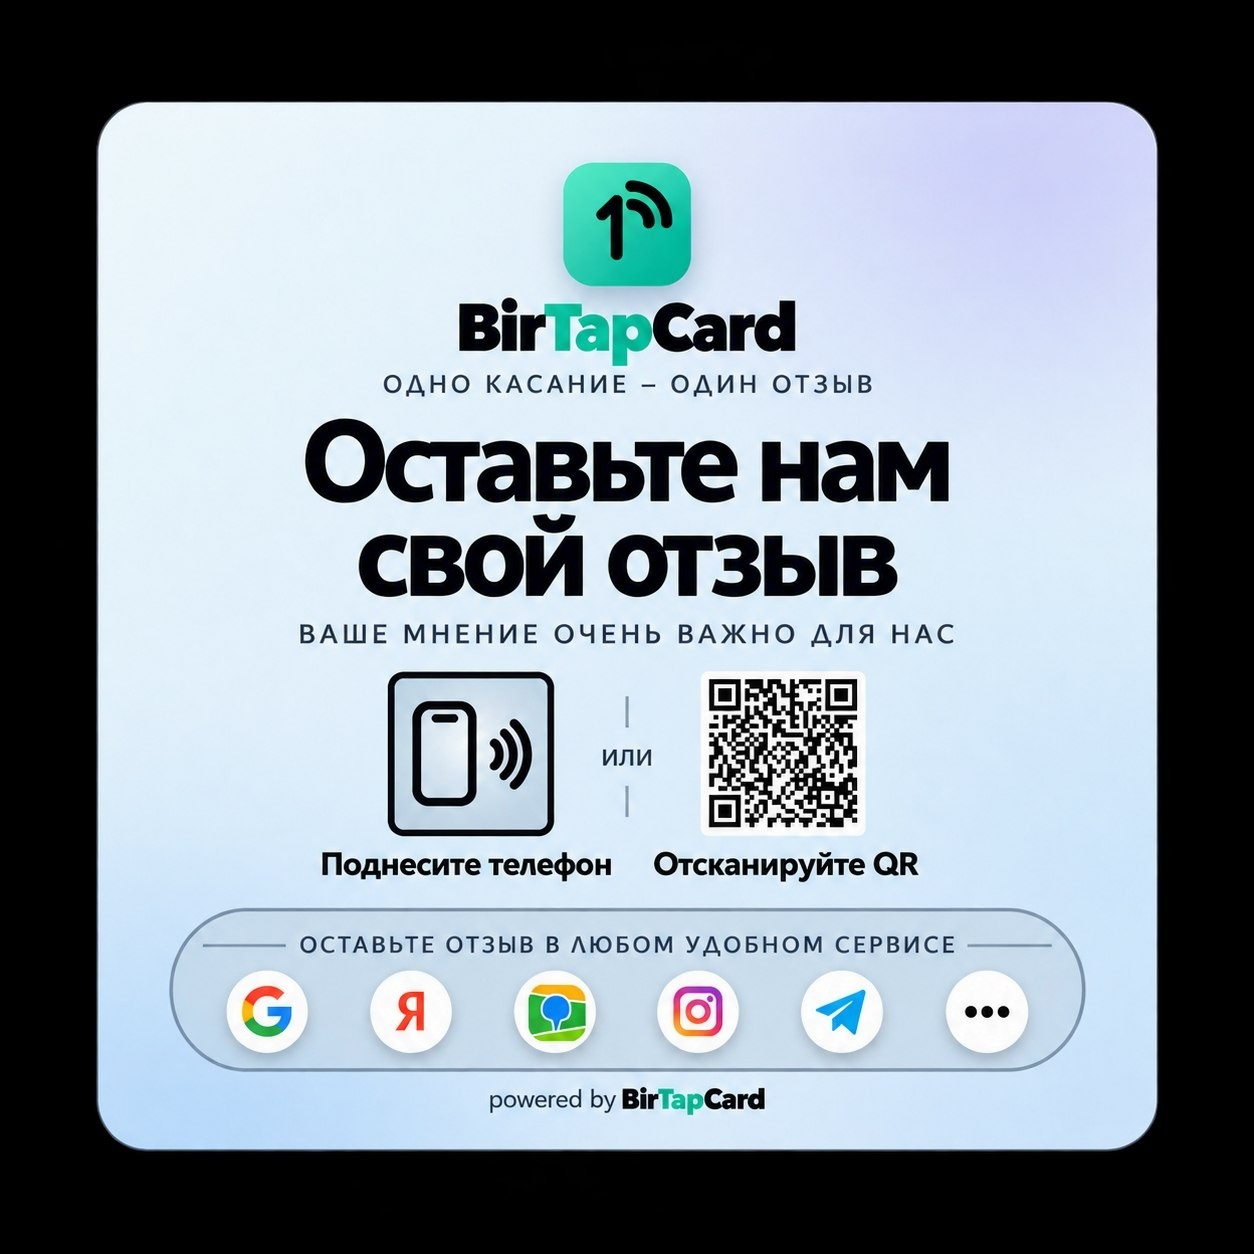
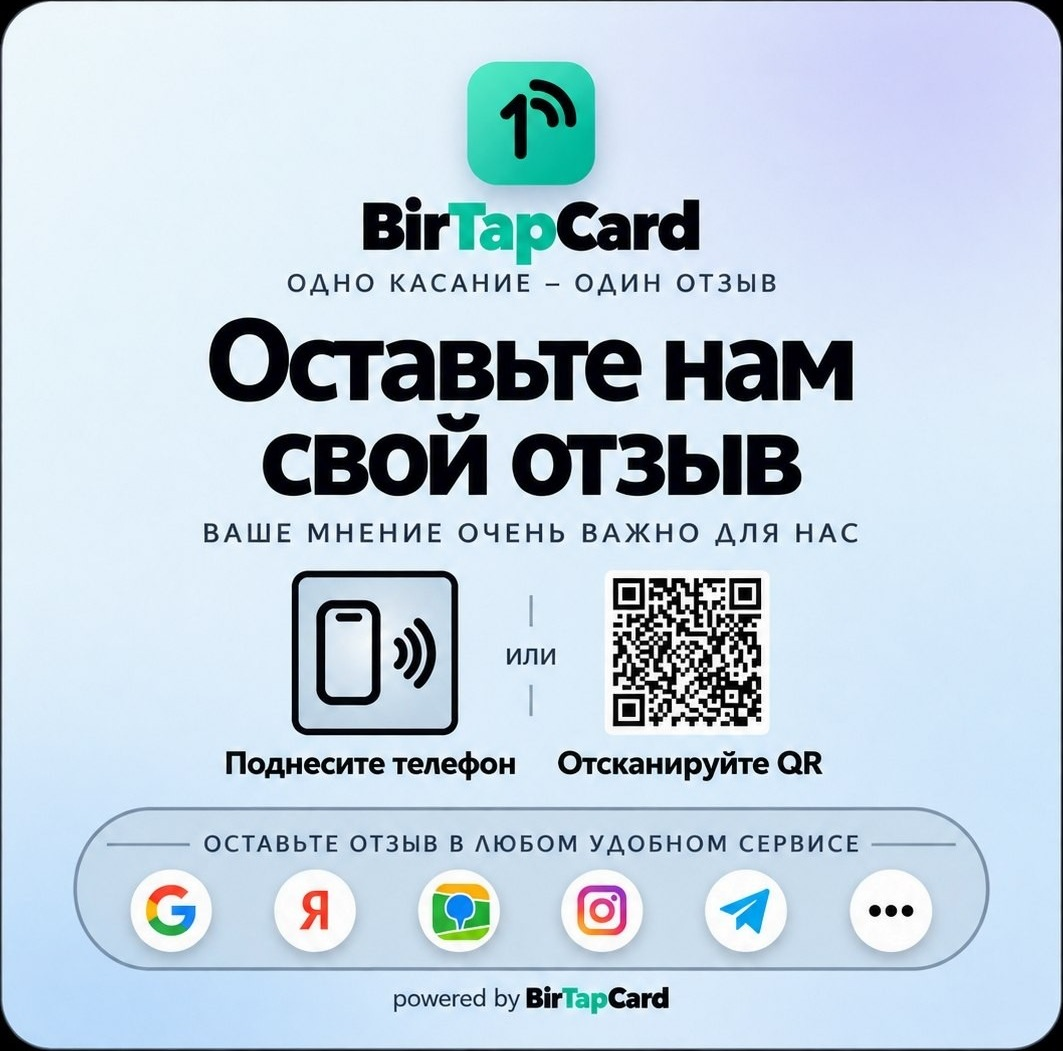
info: trim the baked-in black margin around the card render

diff --git a/public/info.html b/public/info.html
@@ -106,14 +106,16 @@ h1 em{font-style:normal;background:linear-gradient(120deg,var(--mint2),var(--min
 .hero p{color:var(--muted);font-size:16px;line-height:1.6;margin:0 auto 26px;max-width:400px}
 
 .card-shot{
-  position:relative;margin:0 auto 26px;max-width:290px;border-radius:24px;overflow:hidden;
+  position:relative;margin:0 auto 26px;max-width:330px;border-radius:30px;overflow:hidden;
   border:1px solid var(--border2);
   box-shadow:0 30px 70px -25px rgba(0,0,0,.9),0 0 0 1px rgba(0,217,174,.1)
 }
 .card-shot::after{
-  content:'';position:absolute;inset:0;
-  background:linear-gradient(to top,rgba(5,7,14,.55),transparent 45%)
+  content:'';position:absolute;inset:0;pointer-events:none;
+  background:linear-gradient(to top,rgba(5,7,14,.45),transparent 45%)
 }
+.card-shot.crop::after{background:linear-gradient(to top,rgba(5,7,14,.55),transparent 45%)}
+.card-shot:not(.crop)::after{background:none}
 .card-shot.crop{aspect-ratio:5/6}
 .card-shot.crop img{width:100%;height:100%;object-fit:cover;object-position:center 42%}
 .card-shot .tag{
@@ -559,7 +561,7 @@ footer p{font-size:11.5px;color:var(--dim);margin-top:6px}
     <p data-i="h2.sub">Карточка NFC + QR у кассы. Гость приложил телефон — оставил отзыв, подписался на Instagram или Telegram. Вы видите каждое касание в кабинете.</p>
 
     <div class="card-shot">
-      <img src="card-white.jpg" alt="BirTapCard — карточка NFC и QR" width="1254" height="1254">
+      <img src="card-white.jpg" alt="BirTapCard — карточка NFC и QR" width="1160" height="1160">
     </div>
 
     <div class="stats3">
@@ -635,7 +637,7 @@ footer p{font-size:11.5px;color:var(--dim);margin-top:6px}
     <div class="eyebrow rv"><i></i><span data-i="dev.eye">Устройство</span></div>
     <h2 class="rv" data-i="dv.h">NFC + QR в одной карточке. <em>Без питания, без интернета.</em></h2>
     <div class="card-shot rv" style="max-width:100%;margin-bottom:18px">
-      <img src="card-white.jpg" alt="BirTapCard — NFC и QR на одной карточке" width="1254" height="1254">
+      <img src="card-white.jpg" alt="BirTapCard — NFC и QR на одной карточке" width="1160" height="1160">
     </div>
     <div class="cmp">
       <div class="cmp-row rv"><b data-i="cm.r1">Способ считывания</b><div class="cmp-two"><div><i data-i="cm.old">Обычный QR</i><span class="bad" data-i="cm.r1a">только QR</span></div><div><i>BirTapCard</i><span class="good" data-i="cm.r1b">NFC + QR</span></div></div></div>
